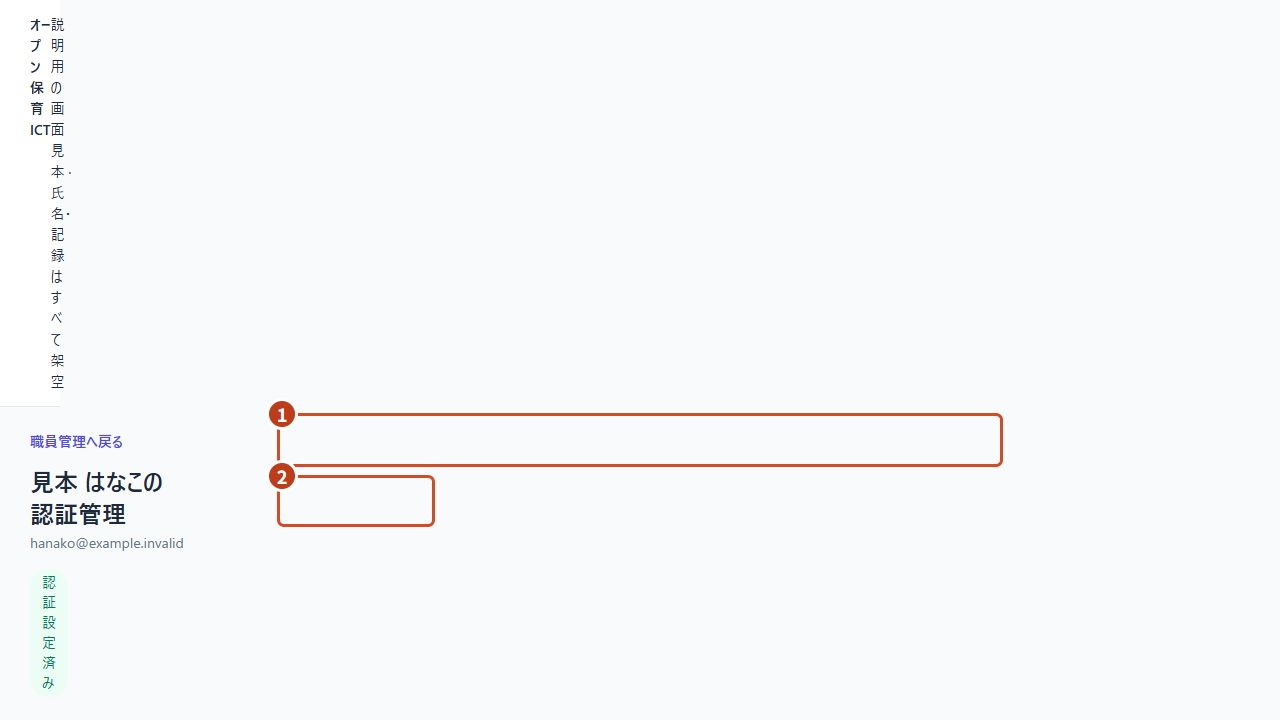
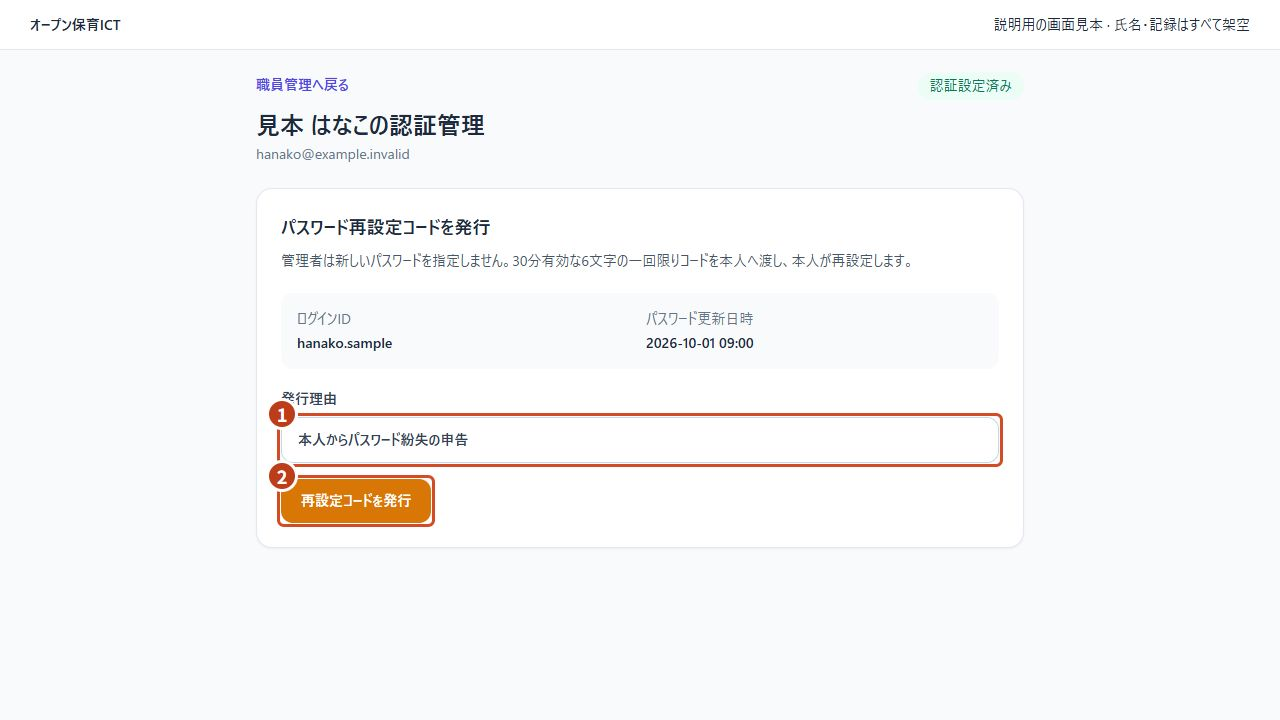
Fix manual screenshots and show staff list in password help

diff --git a/docs/manual-guide-preview/app.js b/docs/manual-guide-preview/app.js
@@ -1,5 +1,5 @@
 'use strict';
-const screenshotSizes = {"monthly-confirm":[1265,1501],"monthly-empty":[1265,1202],"monthly-error":[1265,1283],"monthly-filled":[1265,1202],"monthly-list":[1265,807],"password-admin":[1280,720],"password-person":[1280,720],"phone-empty":[1265,741],"phone-filled":[1265,741],"phone-partial":[1265,741],"phone-saved":[1265,839]};
+const screenshotSizes = {"monthly-confirm":[1265,1501],"monthly-empty":[1265,1202],"monthly-error":[1265,1283],"monthly-filled":[1265,1202],"monthly-list":[1265,807],"password-admin":[1280,720],"password-person":[1280,720],"phone-empty":[1265,741],"phone-filled":[1265,741],"phone-partial":[1265,741],"phone-saved":[1265,839],"staff-list":[1280,720]};
 const main = document.getElementById('main');
 const esc = s => String(s).replace(/[&<>"']/g,c=>({'&':'&amp;','<':'&lt;','>':'&gt;','"':'&quot;',"'":'&#39;'}[c]));
 const manualArticles = {
@@ -40,7 +40,7 @@ const manualArticles = {
     before:'園の管理者へ、パスワードを忘れたことを伝えます。職員を新しく登録し直す必要はありません。',
     path:'管理者：設定 → 職員管理 → 本人の「認証管理」',keywords:'ログイン パスワード 忘れた 入れない 開けない 再設定 コード 期限切れ',
     steps:[
-      {title:'管理者に再設定をお願いする',text:'職員本人は園の管理者に再設定を依頼します。管理者は本人を確認してから、「職員管理」で対象者の「認証管理」を開きます。',image:'password-admin',alt:'見本はなこの認証管理。ログインIDと発行理由、再設定コードを発行するボタン。',note:'管理者本人が入れない場合は、職員ログイン画面の「管理者の方：パスワードを忘れた場合」を使います。'},
+      {title:'管理者に再設定をお願いする',text:'職員本人は園の管理者に再設定を依頼します。管理者は本人を確認してから、「職員管理」で対象者の「認証管理」を開きます。',image:'staff-list',alt:'職員管理の一覧。見本はなこの氏名・ログインIDを1、同じ行の認証管理ボタンを2で囲んだ架空データの例。',calls:['職員の名前とログインIDを確認し、依頼した本人の行を探します。','同じ行の「認証管理」を開きます。'],note:'管理者本人が入れない場合は、職員ログイン画面の「管理者の方：パスワードを忘れた場合」を使います。'},
       {title:'再設定コードを本人に渡す',text:'管理者が「発行理由」を入力し、「再設定コードを発行」を押します。表示された6文字のコードと再設定画面の案内、有効期限を本人に個別に渡します。',image:'password-admin',alt:'管理者向けの発行理由欄と再設定コードを発行ボタンを番号で案内。',calls:['発行理由に「本人からパスワード紛失の申告」などと入力します。','「再設定コードを発行」を押します。'],note:'コードは発行から30分・1回限りです。画面を離れると同じコードは再表示できません。QR付き案内を印刷できる更新版では、用紙を本人に渡せます。'},
       {title:'本人がパスワードを決める',text:'本人が案内された「パスワード再設定」を開きます。受け取ったコードと、新しく決めたパスワードを入力します。管理者が本人のパスワードを決める操作ではありません。',image:'password-person',alt:'職員パスワード再設定。再設定コード、新しいパスワード、確認用パスワード、パスワードを再設定ボタンの全項目。',calls:['最新の再設定コードを入力します。','新しいパスワードを8〜128文字で入力します。','同じパスワードを確認欄にも入力します。','「パスワードを再設定」を押します。'],note:'画面は見本です。ここに実際のコードやパスワードを入力する欄はありません。'},
       {title:'新しいパスワードでログインする',text:'職員ログイン画面に戻り、これまでのログインIDと新しいパスワードでログインします。担当する業務の画面を開けることを確認します。',note:'パスワードの再設定では、ログインIDは変わりません。設定後に使った案内用紙は破棄します。',calls:['ログインIDが合っているか確認します。','ログインでき、担当業務の画面が開くことを確認します。']}
@@ -76,7 +76,7 @@ const answers={
 function answer(id){const a=answers[id];return `<div class="diagnosis">${crumb('状況に合わせた対応')}<p class="eyebrow">まず、ここを確認</p><h1>${a[0]}</h1><p>${a[1]}</p><div class="notice">${a[2]}</div><div class="related"><a class="primary topic" href="#article/${a[3]}">関連する画面付きの手順を読む →</a><a class="topic" href="#help/${a[3]}">状況を選び直す</a></div></div>`;}
 function normalize(s){return s.normalize('NFKC').toLowerCase().replace(/\s+/g,'');}
 function search(q){const n=normalize(q), terms=q.normalize('NFKC').trim().split(/[\s　]+/).filter(Boolean);const expansions=[];if(/欠席|電話|でんわ|休み/.test(n))expansions.push('phone');if(/打刻|だこく|登園|降園|補完/.test(n))expansions.push('clock');if(/ログイン|パスワード|コード/.test(n))expansions.push('password');const matches=Object.entries(manualArticles).filter(([id,a])=>expansions.includes(id)||(terms.length&&terms.every(t=>normalize(a.title+a.keywords+a.summary).includes(normalize(t)))));const refs=manualChapters.flatMap(c=>c.topics).filter(t=>terms.length&&terms.every(w=>normalize(t.title+t.role).includes(normalize(w))));return `${crumb('検索結果')}<h1>必要な手順を探す</h1>${searchBox()}<p class="search-status" role="status">${q?`「${esc(q)}」：画面付き ${matches.length}件・既存資料 ${refs.length}件`:'困っていることや、やりたいことを入力してください。'}</p>${matches.length?`<h2>画面を見ながら進める</h2><div class="topic-list">${matches.map(([id])=>articleLink(id)).join('')}</div>`:''}${refs.length?`<div class="section-head"><h2>現在の公開資料</h2></div><div class="topic-list">${refs.map(referenceLink).join('')}</div>`:''}${q&&!matches.length&&!refs.length?`<div class="empty-result"><h2>ぴったりの手順が見つかりませんでした。</h2><p>「打刻忘れ」「職員登録」のような短い言葉で試してください。<br>このモックで画面付きの手順があるのは3例です。</p><a href="#chapters">業務別の目次から探す →</a></div>`:''}`;}
-function renderStep(a,i,print=false){const s=a.steps[i];const prefix=currentArticle==='phone'?'phone':'monthly';let image=s.image;if(s.states&&imageState&&!print)image=prefix+'-'+imageState;return `<section class="step-body" id="${print?'print-':''}step-${i}"><div class="step-heading"><span class="number">${i+1}</span><h2>${s.title}</h2></div><p>${s.text}</p>${s.states&&!print?`<label class="state-select">見本の状態 <select data-state-step="${i}" aria-label="見本の状態">${s.states.map(([v,l])=>`<option value="${v}"${(imageState||s.states[0][0])===v?' selected':''}>${l}</option>`).join('')}</select></label><p class="state-explanation">${s.stateNotes[imageState||s.states[0][0]]}</p>`:''}${image?`<figure class="screen"><button type="button" data-zoom="${image}" data-caption="${esc(s.states&&imageState&&!print?s.stateNotes[imageState]:s.alt)}" aria-label="手順${i+1}の画面を拡大"><img width="${screenshotSizes[image][0]}" height="${screenshotSizes[image][1]}" src="assets/${image}.jpg?v=20261103-v1" alt="${esc(s.states&&imageState&&!print?s.stateNotes[imageState]:s.alt)}"></button><figcaption><span>配備記録に対応する画面の見本・架空データ${image.startsWith('monthly-')&&image!=='monthly-list'?'／入力欄を縦に展開':''}</span><span>画像を押すと拡大 ↗</span></figcaption></figure>`:''}${s.calls?`<ol class="callouts">${s.calls.map((c,k)=>`<li><span class="number">${k+1}</span><span>${c}</span></li>`).join('')}</ol>`:''}${s.note?`<div class="notice ${i===a.steps.length-2?'warm':''}">${s.note}</div>`:''}</section>`;}
+function renderStep(a,i,print=false){const s=a.steps[i];const prefix=currentArticle==='phone'?'phone':'monthly';let image=s.image;if(s.states&&imageState&&!print)image=prefix+'-'+imageState;return `<section class="step-body" id="${print?'print-':''}step-${i}"><div class="step-heading"><span class="number">${i+1}</span><h2>${s.title}</h2></div><p>${s.text}</p>${s.states&&!print?`<label class="state-select">見本の状態 <select data-state-step="${i}" aria-label="見本の状態">${s.states.map(([v,l])=>`<option value="${v}"${(imageState||s.states[0][0])===v?' selected':''}>${l}</option>`).join('')}</select></label><p class="state-explanation">${s.stateNotes[imageState||s.states[0][0]]}</p>`:''}${image?`<figure class="screen"><button type="button" data-zoom="${image}" data-caption="${esc(s.states&&imageState&&!print?s.stateNotes[imageState]:s.alt)}" aria-label="手順${i+1}の画面を拡大"><img width="${screenshotSizes[image][0]}" height="${screenshotSizes[image][1]}" src="assets/${image}.jpg?v=20261103-v2" alt="${esc(s.states&&imageState&&!print?s.stateNotes[imageState]:s.alt)}"></button><figcaption><span>配備記録に対応する画面の見本・架空データ${image.startsWith('monthly-')&&image!=='monthly-list'?'／入力欄を縦に展開':''}</span><span>画像を押すと拡大 ↗</span></figcaption></figure>`:''}${s.calls?`<ol class="callouts">${s.calls.map((c,k)=>`<li><span class="number">${k+1}</span><span>${c}</span></li>`).join('')}</ol>`:''}${s.note?`<div class="notice ${i===a.steps.length-2?'warm':''}">${s.note}</div>`:''}</section>`;}
 function article(id){const a=manualArticles[id];return `${crumb('画面付きの手順',a.chapter)}<div class="article-meta"><span class="badge">${a.tag}</span><span>${a.role}</span><span>全${a.steps.length}ステップ</span></div><h1 class="article-title">${a.title}</h1><p class="lead">${a.summary}</p><dl class="article-intro"><div><dt>この手順でできること</dt><dd>${a.goal}</dd></div><div><dt>始める前に</dt><dd>${a.before}</dd></div></dl><div class="path"><strong>開く画面</strong>　${a.path}</div><div class="reader-controls"><div class="segmented" aria-label="読み方"><button data-reader="step" aria-pressed="${!allSteps}">1つずつ読む</button><button data-reader="all" aria-pressed="${allSteps}">まとめて読む</button></div><button data-print>この手順を印刷</button></div><div class="reader screen-only">${allSteps?`<div class="all-steps">${a.steps.map((_,i)=>renderStep(a,i)).join('')}</div>`:`<nav class="step-nav" aria-label="操作手順">${a.steps.map((s,i)=>`<button data-step="${i}" ${i===currentStep?'aria-current="step"':''}><span class="number">${i+1}</span><span>${s.title}</span></button>`).join('')}</nav><div>${renderStep(a,currentStep)}<div class="next-prev"><button data-step="${currentStep-1}" ${currentStep===0?'disabled':''}>← 前の手順</button><span>${currentStep+1} / ${a.steps.length}</span>${currentStep<a.steps.length-1?`<button class="primary" data-step="${currentStep+1}">次の手順へ →</button>`:`<button class="primary" data-check-jump>完了を確認する ↓</button>`}</div></div>`}</div><div class="print-only">${a.steps.map((_,i)=>renderStep(a,i,true)).join('')}</div><section class="checklist" id="completion"><h2>ここまでできたら、完了です。</h2><p>読みながら確認するためのチェックです。実際の業務データには反映されません。</p>${a.checks.map((c,i)=>`<label><input type="checkbox" data-check="${i}" ${checked[id]?.includes(i)?'checked':''}>${c}</label>`).join('')}<div class="check-progress" role="status">${completionText(id)}</div></section><section class="faq"><h2>うまくいかない・間違えたとき</h2>${a.faq.map(([q,ans])=>`<details><summary>${q}</summary><p>${ans}</p></details>`).join('')}</section><div class="related"><a href="#chapter/${a.chapter}">← ${titles[a.chapter]}の目次</a><span>·</span><a href="#issues">ほかの困りごとを見る</a></div><details class="source-note"><summary>この見本の対象版・参照した資料</summary><p>2026-11-01の配備記録と保存済みテンプレートをもとに、架空データで画面を表示して撮影しました。園の実データ・実機の画面は撮影していません。外枠は撮影用に整理し、一括補完の画面は入力欄を縦に展開しています。実際の園での表示・文言の最終確認は今後行います。モック作成日：2026-11-03。</p><a href="https://open.hoikuict.net/${a.source}" target="_blank" rel="noopener">${a.sourceLabel}（公開中の資料）↗</a></details>`;}
 function completionText(id){const count=(checked[id]||[]).length;return count===manualArticles[id].checks.length?'✓ すべて確認できました。':`${count} / ${manualArticles[id].checks.length} 項目を確認済み`;}
 function renderRoute(focus=true){let parts=location.hash.slice(1).split('/');let [page,arg]=parts;document.getElementById('sidebar').classList.remove('open');document.getElementById('menu-toggle').setAttribute('aria-expanded','false');let html;switch(page){case 'chapters':html=chapters();break;case 'chapter':html=manualChapters[+arg]?chapter(+arg):chapters();break;case 'issues':html=issues();break;case 'help':html=helpOptions[arg]?help(arg):issues();break;case 'answer':html=answers[arg]?answer(arg):issues();break;case 'search':{let q='';try{q=decodeURIComponent(parts.slice(1).join('/'));}catch{}html=search(q);break;}case 'article':if(manualArticles[arg]){if(currentArticle!==arg){currentStep=0;imageState='';allSteps=false;}currentArticle=arg;html=article(arg);break;}default:html=home();}
@@ -88,7 +88,7 @@ function bind(){main.querySelector('#search-form')?.addEventListener('submit',e=
 main.querySelectorAll('[data-step]').forEach(b=>b.addEventListener('click',()=>{currentStep=+b.dataset.step;imageState='';updateReader();main.querySelector('.step-body').scrollIntoView({block:'start'});main.querySelector('.step-heading h2').setAttribute('tabindex','-1');main.querySelector('.step-heading h2').focus({preventScroll:true});}));
 main.querySelectorAll('[data-reader]').forEach(b=>b.addEventListener('click',()=>{allSteps=b.dataset.reader==='all';imageState='';updateReader();main.querySelector(`[data-reader="${allSteps?'all':'step'}"]`).focus({preventScroll:true});}));
 main.querySelectorAll('[data-state-step]').forEach(s=>s.addEventListener('change',()=>{imageState=s.value;updateReader();main.querySelector('[data-state-step]').focus({preventScroll:true});}));
-main.querySelectorAll('[data-zoom]').forEach(b=>b.addEventListener('click',()=>{const dialog=document.getElementById('image-dialog');document.getElementById('zoom-image').src='assets/'+b.dataset.zoom+'.jpg?v=20261103-v1';document.getElementById('zoom-image').alt=b.dataset.caption;document.getElementById('image-title').textContent='画面を拡大して確認';dialog.showModal();}));
+main.querySelectorAll('[data-zoom]').forEach(b=>b.addEventListener('click',()=>{const dialog=document.getElementById('image-dialog');document.getElementById('zoom-image').src='assets/'+b.dataset.zoom+'.jpg?v=20261103-v2';document.getElementById('zoom-image').alt=b.dataset.caption;document.getElementById('image-title').textContent='画面を拡大して確認';dialog.showModal();}));
 main.querySelector('[data-print]')?.addEventListener('click',()=>window.print());main.querySelector('[data-check-jump]')?.addEventListener('click',()=>{document.getElementById('completion').scrollIntoView();main.querySelector('[data-check]').focus({preventScroll:true});});
 main.querySelectorAll('[data-check]').forEach(c=>c.addEventListener('change',()=>{checked[currentArticle]=Array.from(main.querySelectorAll('[data-check]:checked')).map(e=>+e.dataset.check);main.querySelector('.check-progress').textContent=completionText(currentArticle);}));}
 document.getElementById('close-image').addEventListener('click',()=>document.getElementById('image-dialog').close());

diff --git a/docs/manual-guide-preview/style.css b/docs/manual-guide-preview/style.css
@@ -4,6 +4,4 @@
 @media(max-width:760px){.preview-bar{padding:7px 16px;flex-wrap:wrap;gap:5px;font-size:.65rem}.preview-bar>span:last-child{display:none}.site-head{height:81px;padding:0 17px}.brand strong{font-size:.85rem}.brand small{font-size:.6rem}.brand-mark{width:35px;height:35px;font-size:23px}.head-actions{gap:5px}.head-actions button{padding:7px;font-size:.7rem}.layout{display:block}#sidebar{display:none;border-bottom:1px solid var(--line);border-right:0}#sidebar.open{display:block}#menu-toggle{display:block}main{padding:29px 19px 50px}.hero{padding-right:0}.hero-index{display:none}h1{font-size:1.8rem}.lead{font-size:.87rem}.search-box{padding-left:11px}.search-box input{font-size:.85rem}.search-box button{font-size:.8rem;padding:8px 13px}.entrances{grid-template-columns:1fr;gap:12px}.entrance{padding:20px}.entrance h2{font-size:1.2rem}.issue-grid{grid-template-columns:1fr}.issue-card{min-height:0;padding:20px}.issue-card .tiny{margin-bottom:8px}.issue-card p{margin-bottom:12px}.chapter-grid{grid-template-columns:1fr}.hint-strip{display:block}.hint-strip strong{display:block;margin-bottom:6px}.article-title{font-size:1.6rem}.article-intro{grid-template-columns:1fr;gap:15px;padding:17px}.step-body{padding:18px}.step-nav button{font-size:.72rem;min-width:116px}.screen figcaption{display:block}.screen figcaption span{display:block}.callouts{font-size:.82rem}.step-heading h2{font-size:1.05rem}.topic{padding:16px;gap:10px;align-items:flex-start}.topic strong{font-size:.95rem}.topic .badge{white-space:normal;min-width:67px}.section-head{align-items:flex-start}.section-head span{max-width:120px}.state-select{flex-wrap:wrap}.article-meta{font-size:.69rem}.checklist{padding:18px}}
 @media print{.preview-bar,.site-head,#sidebar,.reader-controls,.step-nav,.next-prev,.state-select,.breadcrumb,.related,.source-note,.head-actions,dialog,.screen figcaption span:last-child{display:none!important}.layout{display:block}main{padding:0;max-width:none}.article-title{font-size:23px}.reader{display:block}.print-only{display:grid!important;gap:15px}.screen-only{display:none!important}.step-body{break-inside:avoid;border:0;padding:12px 0}.screen{margin:10px 0}.screen img{max-height:340px;object-fit:contain}.article-intro{padding:10px;margin:12px 0}.step-body p,.callouts{font-size:12px}.checklist{break-inside:avoid}.checklist input{appearance:none;border:1px solid #777;width:12px;height:12px}.faq details{break-inside:avoid}.faq details>p{display:block}body{background:white;color:#111}.all-steps{gap:8px}a{color:#222;text-decoration:none}@page{size:A4;margin:14mm}}
 
-.site-return{display:inline-flex;align-items:center;font-size:.78rem;padding:8px;text-decoration:none;white-space:nowrap}@media(max-width:760px){.site-return{font-size:.66rem;padding:6px}.site-head{gap:7px}.head-actions{flex-wrap:wrap;justify-content:flex-end}.brand{flex-shrink:0}}
-
-@media(max-width:760px){.site-head{height:auto;min-height:81px;flex-wrap:wrap;padding:12px 17px}.head-actions{margin-left:auto;flex-wrap:nowrap}}
+.site-return{display:inline-flex;align-items:center;font-size:.78rem;padding:8px;text-decoration:none;white-space:nowrap}@media(max-width:760px){.site-return{font-size:.66rem;padding:6px}.site-head{gap:7px}.head-actions{flex-wrap:wrap;justify-content:flex-end}.brand{flex-shrink:0}}@media(max-width:760px){.site-head{height:auto;min-height:81px;flex-wrap:wrap;padding:12px 17px}.head-actions{margin-left:auto;flex-wrap:nowrap}}

diff --git a/docs/manual-guide-preview/index.html b/docs/manual-guide-preview/index.html
@@ -7,13 +7,13 @@
   <meta name="robots" content="noindex,follow">
   <meta name="description" content="保育園職員向けのスクリーンショット付きマニュアルの試作版。業務別の目次と、困りごとから手順を探せます。">
   <title>職員のための使い方ガイド｜オープン保育ICT・モック</title>
-  <link rel="stylesheet" href="style.css?v=20261103-v1">
-  <script src="catalog.js?v=20261103-v1" defer></script>
-  <script src="app.js?v=20261103-v1" defer></script>
+  <link rel="stylesheet" href="style.css?v=20261103-v2">
+  <script src="catalog.js?v=20261103-v2" defer></script>
+  <script src="app.js?v=20261103-v2" defer></script>
 </head>
 <body>
   <a class="skip" href="#main">本文へ進む</a>
-  <div class="preview-bar"><span class="preview-tag">試作版 v1</span> マニュアルの見せ方を試すための案です。 <span>画面内の人物・記録はすべて架空です。</span></div>
+  <div class="preview-bar"><span class="preview-tag">試作版 v1.1</span> マニュアルの見せ方を試すための案です。 <span>画面内の人物・記録はすべて架空です。</span></div>
   <header class="site-head">
     <a class="brand" href="#home"><span class="brand-mark" aria-hidden="true">ひ</span><span><small>オープン保育ICT</small><strong>職員のための使い方ガイド</strong></span></a>
     <div class="head-actions"><a class="site-return" href="../">HPへ戻る</a><button id="font-toggle" aria-pressed="false">文字を大きく</button><button id="menu-toggle" aria-expanded="false" aria-controls="sidebar">目次</button></div>

diff --git a/docs/spec-decisions.md b/docs/spec-decisions.md
@@ -12,3 +12,11 @@
 - 画面の基準：2026-11-01の配備記録と保存済みテンプレートを照合した架空データの画面。外枠の整理と一括補完の縦展開を明記し、全入力項目を残した。実データ・本番DB・送信処理には接続しない。
 - 更新・検証：2026-11-03のローカルモックで検索、状況分岐、前後移動、全手順表示、入力状態の画像切替、画像拡大、確認チェック、スマートフォン幅を確認した。今回の公開候補は別途ビルドと表示・操作を確認してから反映する。
 - 未確認：園ごとの最新画面・権限、職員による全手順の確認、紙・PDFの印刷レイアウト。既存の整備進捗表は、項目ごとの確認・公開状況を確認して更新する。
+
+### 2026-11-03追記：スクリーンショットの表示崩れを修正
+
+- 根拠：ユーザーの「マニュアルのスクショがズレているね」という指摘と、職員一覧・試作版の添付画像。初回公開の認証管理画像が横方向につぶれ、番号枠が対象から離れていたことを確認した。
+- 修正範囲：認証管理の画像を撮り直し、手順1には「職員一覧で本人の行と認証管理を選ぶ」画像と番号の説明を追加。手順2は発行理由と再設定コード発行、手順3は本人の再設定画面とする。画像は計12枚、試作版v1.1。既存の業務手順・保存処理は変更しない。
+- 画面の扱い：保存済み配備テンプレートを架空データで表示・撮影。添付された実在の氏名・メールアドレスは公開画像へ転用していない。
+- 原因と再発防止：撮影元の通常表示は正常だったが、ページ全体の撮影で横幅がつぶれる現象を再現。短い画面は表示範囲の撮影に変更し、保存されたJPEG自体で文字・全入力項目・番号枠を確認する。番号枠は撮影元のサイズ変更にも追従させた。画像・JS・CSSの参照版を同時に更新し、古い画像のキャッシュと区別する。
+- 置換関係：初回公開のパスワード手順1・2の画像確認結果を訂正する。他の代表例や全33項目の確認完了を意味しない。公開後の確認結果は別途記録する。

diff --git a/docs/documentation.md b/docs/documentation.md
@@ -49,7 +49,7 @@ git diff --check
 
 ## リンクと公開する情報
 
-画面付きマニュアルの試作方針・公開範囲は[SD-012](spec-decisions.md#sd-012)に記録しています。公開用の説明は `docs/manual-guide.md`、操作できる試作版は `docs/manual-guide-preview/` に置きます。画面11枚は架空データの撮影画像で、撮影用の業務フォーム・実データ・ローカル確認用ファイルは公開対象に含めません。更新時は既存のマニュアルを保持し、画像・JS・CSSの版をそろえて表示・検索・画像拡大を確認してください。
+画面付きマニュアルの試作方針・公開範囲は[SD-012](spec-decisions.md#sd-012)に記録しています。公開用の説明は `docs/manual-guide.md`、操作できる試作版は `docs/manual-guide-preview/` に置きます。画面12枚は架空データの撮影画像で、撮影用の業務フォーム・実データ・ローカル確認用ファイルは公開対象に含めません。更新時は既存のマニュアルを保持し、画像・JS・CSSの版をそろえて表示・検索・画像拡大を確認してください。 撮影元の表示だけで完了にせず、保存した画像そのものを開いて文字・全入力項目・番号枠の位置を確認し、公開後の画像拡大でも照合します。
 
 同じサイトのページは `[表示名](page.md)` 形式にし、長い見出しへの参照には `{#maintenance}` のような明示アンカーを使います。`docs/` の外にあるコード・ツールはGitHubの対象ファイルへリンクし、生成物に対して `../tools/...` のような存在しない相対リンクを作りません。
 

diff --git a/docs/history.md b/docs/history.md
@@ -6,6 +6,7 @@
 
 | 日付 | 文書 | 内容 |
 | --- | --- | --- |
+| 2026-11-03 | [試作版のスクショ修正](manual-guide.md) | 認証管理の崩れた画像を撮り直し。最初の手順に職員一覧の本人・認証管理を示す画像を追加。試作版v1.1、画像12枚 |
 | 2026-11-03 | [スクショ付きマニュアルの試作版](manual-guide.md) | 電話での欠席受付・登降園の空欄補完・パスワード再設定の3例、架空データの画面11枚、検索と状況別の案内を追加。トップ・目次・ナビから案内。既存のマニュアル・業務アプリの動作は維持 |
 | 2026-11-01 | [職員登録](staff-registration-manual.md)・[保護者登録](parent-registration-manual.md)の公開マニュアル | QR付き案内、在園児の本人情報の引継ぎ、登録完了と困ったときの対応を掲載。[登降園時刻の一括補完](daily-work.md#bulk-attendance)に共通時刻の反映手順を追記 |
 | 2026-09-23 | [Windows導入完了時の修正](windows-server-setup.md) | [v2026.9.23.5](https://github.com/hoikuict/open-hoikuict/releases/tag/v2026.9.23.5)。管理者権限で更新した導入記録の読取と、Windowsで監視記録の更新が競合した際の再試行を修正 |
